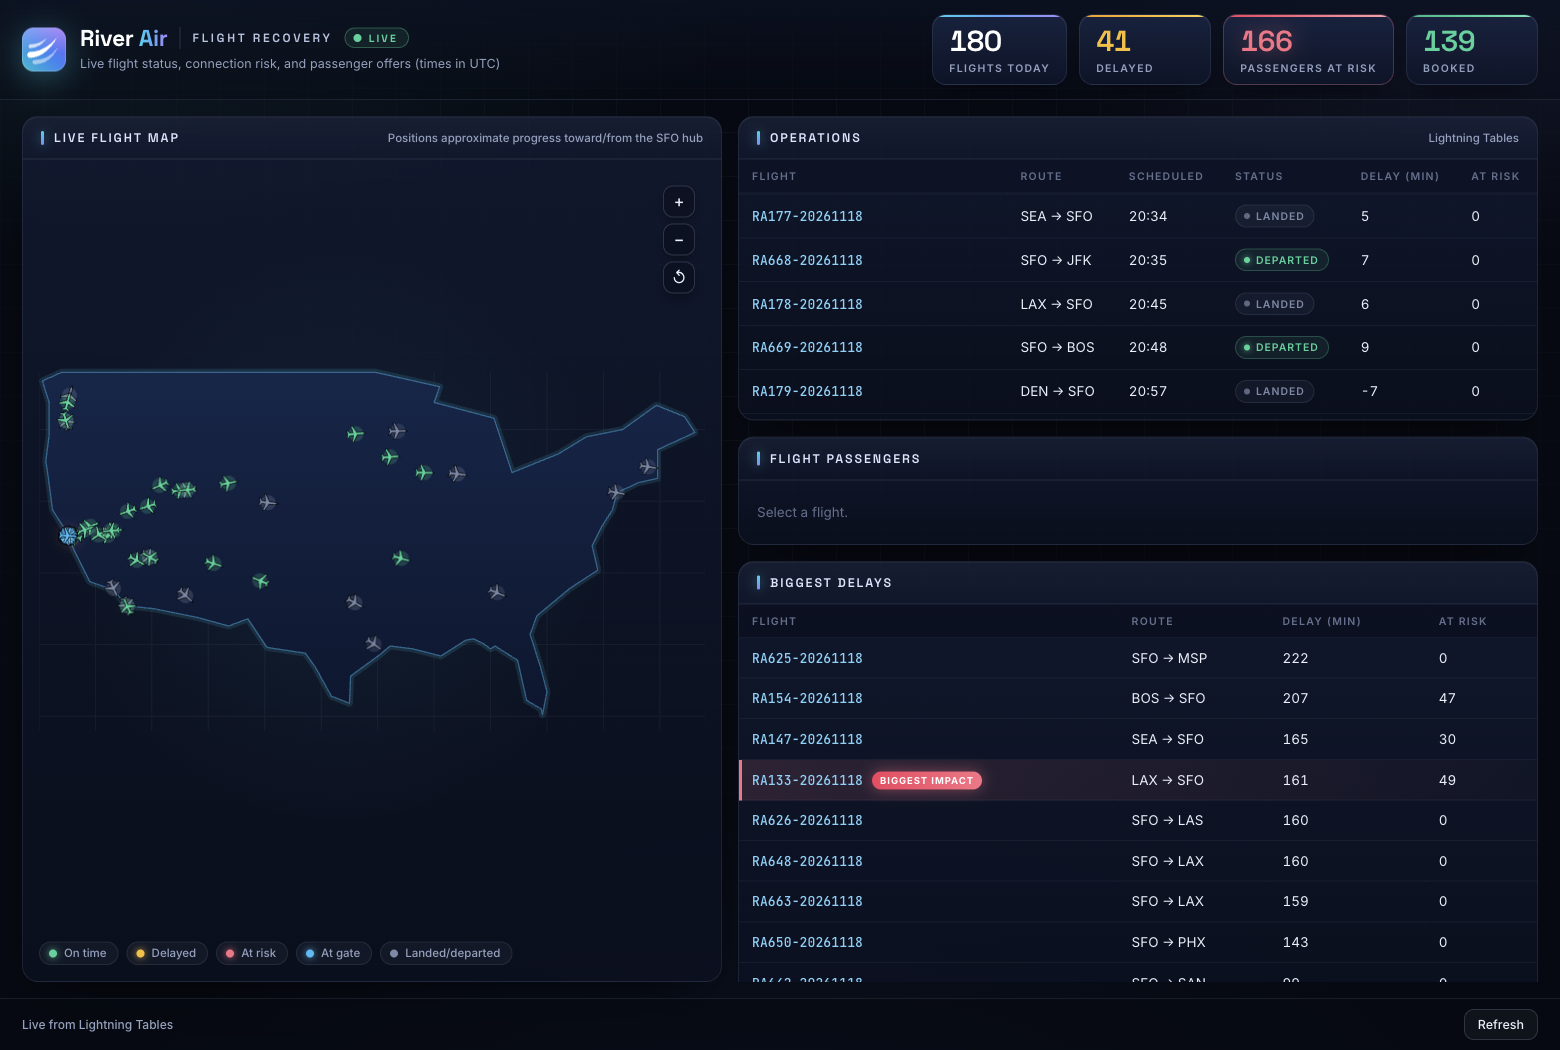
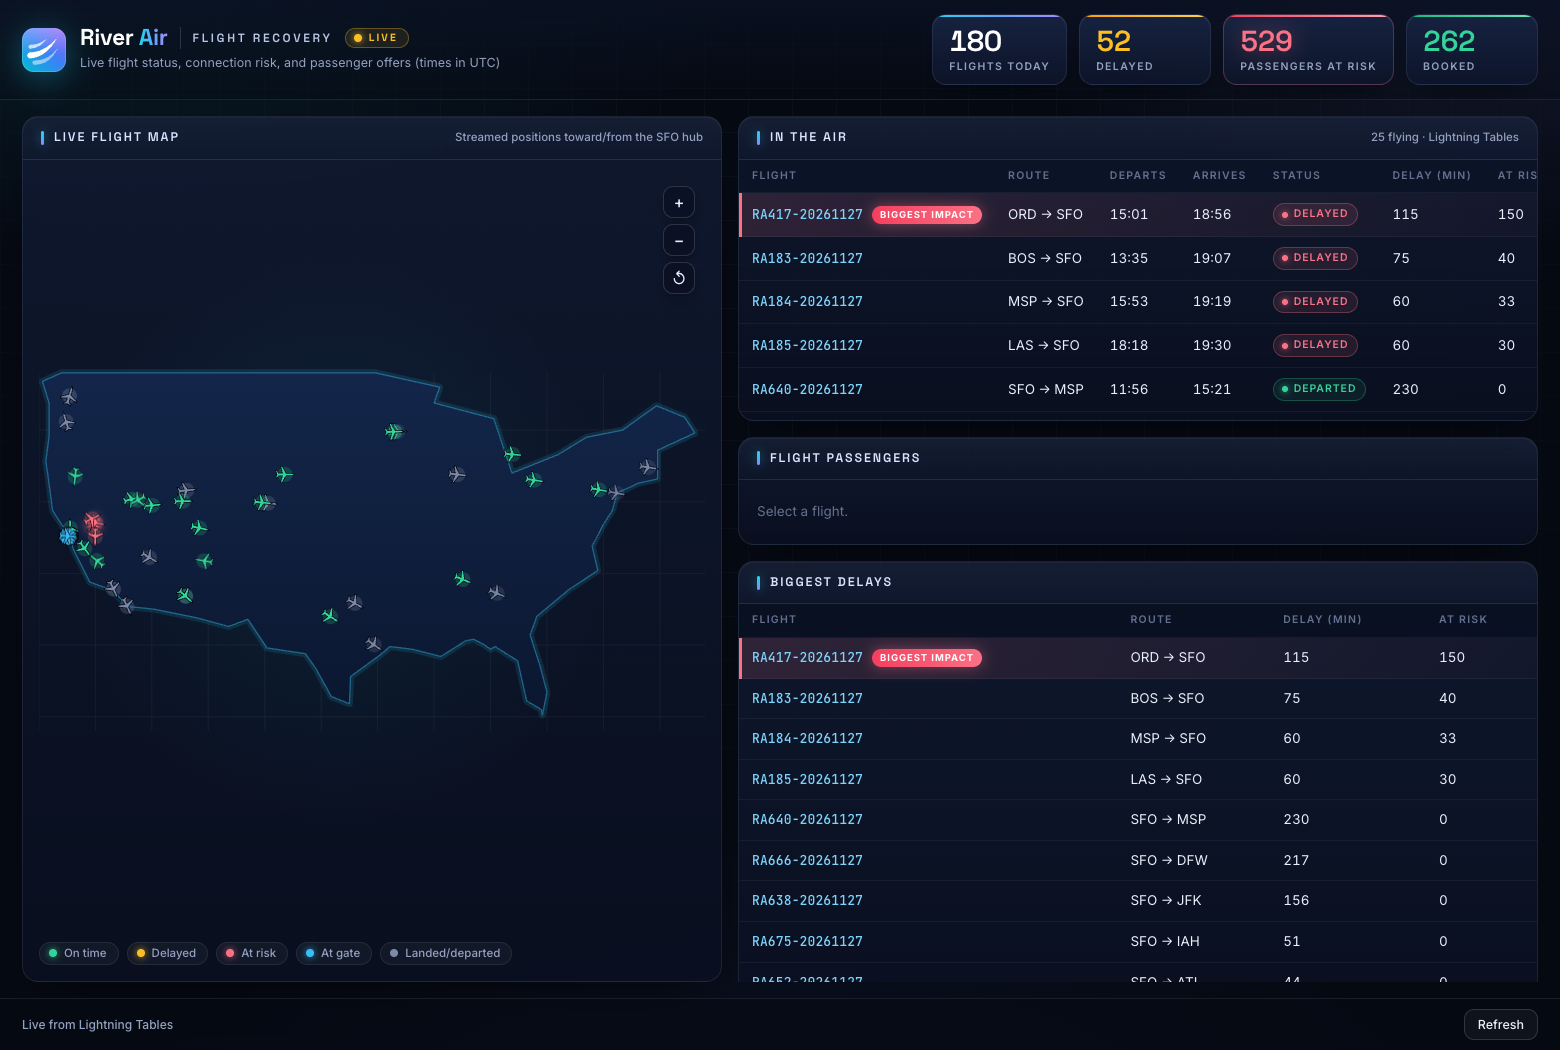
Retake the F1 deploy and airline dashboard screenshots
The F1 deploy screenshot showed the old API key prompt; the new one is
today's deploy flow (Deploying as, the key created without asking),
with the email and key ID masked. The dashboard screenshot showed the
removed Operations panel; the new one shows In the air and Biggest
delays, which Lab 3 step 5 names.

diff --git a/docs/agentic-pit-decisions/walkthrough.md b/docs/agentic-pit-decisions/walkthrough.md
@@ -103,7 +103,7 @@ confluent version
     uv run deploy
     ```
 
-    <img src="../images/agentic-pit-decisions/selfservice-up.png" alt="uv run deploy: API key generation, configuration prompts, and the ready prompt" width="600">
+    <img src="../images/agentic-pit-decisions/selfservice-up.png" alt="uv run deploy for Agentic Pit Decisions: lab choice, login, new environment, API key created, summary, and the ready prompt" width="600">
 
     Deploy asks for the following, in this order:
 
